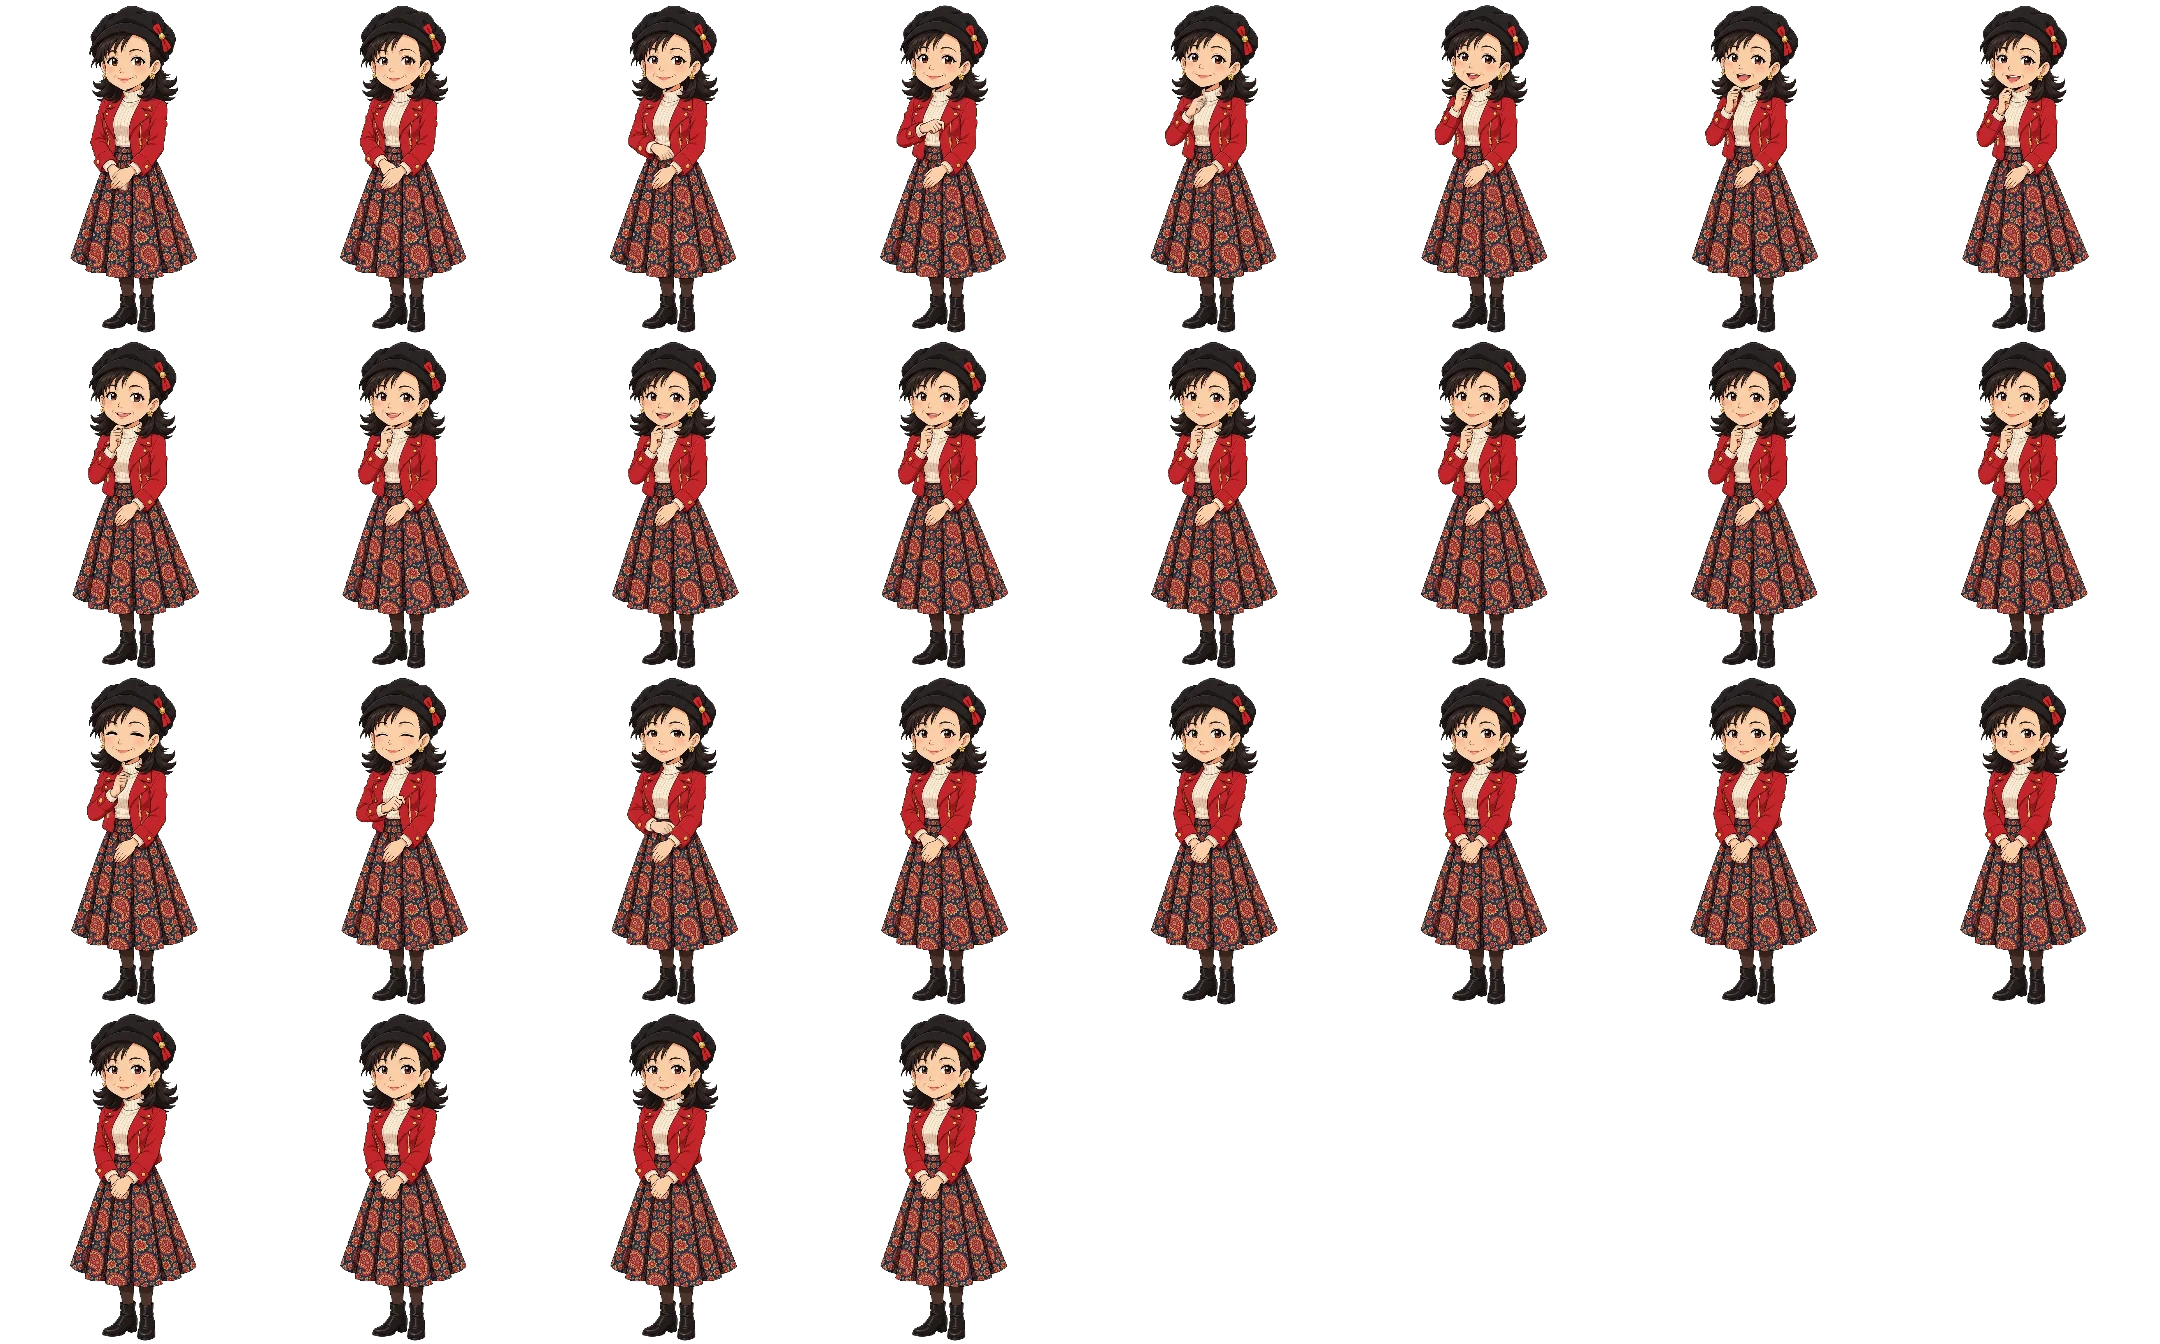
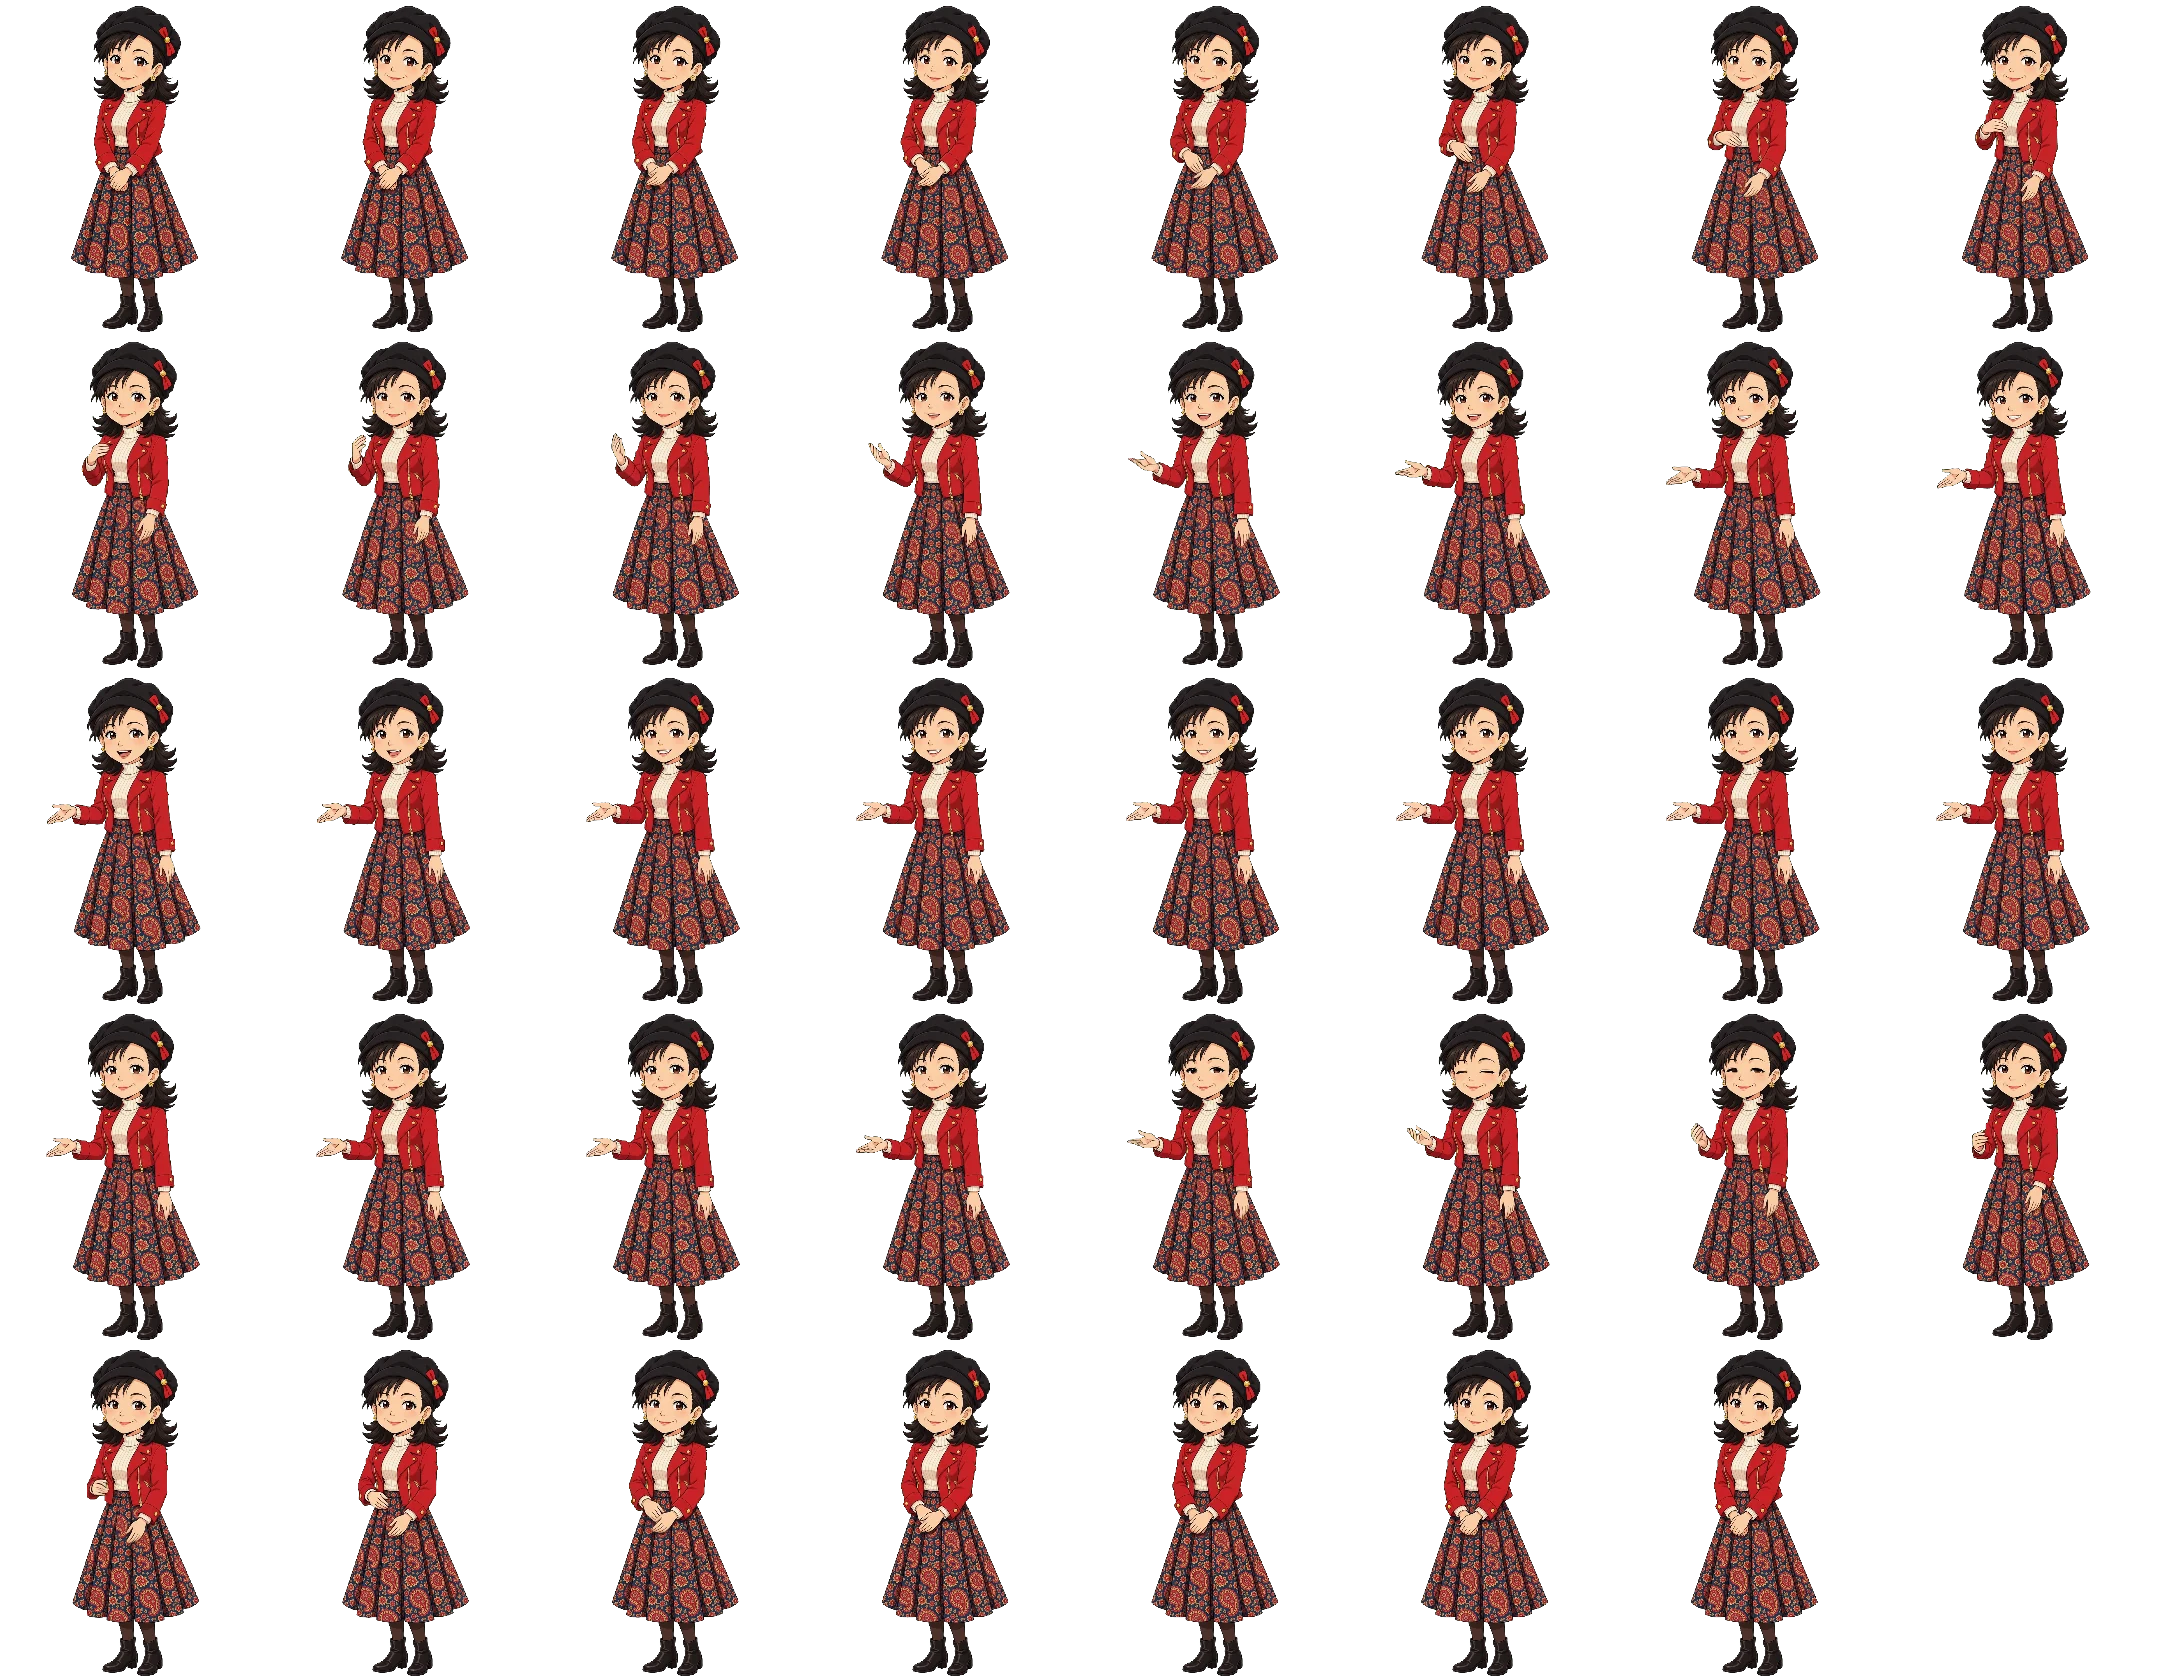
v1.61: 珍英's 聽 and 低頭看牌 remade the same way — every table motion now starts and ends on her standing pose
Claude-Session: https://claude.ai/code/session_01WZLqZseQ84zHkrkNDgDySm

diff --git a/index.html b/index.html
@@ -21,7 +21,7 @@
 <details><summary>固定配牌練習</summary><p>以下是固定牌例，包含已進行到中途的牌桌；正式遊玩請選「開始新場」。</p><div class="prototype-scenes"><button type="button" data-scene="normal">中途牌桌練習</button><button type="button" data-scene="chi">多組吃牌練習</button><button type="button" data-scene="ready">聽牌選牌練習</button><a href="./layout-check.html" data-overlay>桌面草圖對照</a></div></details>
 <button id="resume-match" class="primary" type="button" hidden>返回暫停的整場</button><button id="back-title" type="button">回到標題畫面</button><button id="fullscreen-toggle" type="button" hidden>全螢幕遊玩</button><details><summary>開始新場</summary><div class="new-game"><label>指定編號（選填） <input id="seed" type="number" min="0" max="4294967295" placeholder="留白隨機開局"></label><label>場次長度 <select id="rounds"><option value="4">四圈完整場</option><option value="1">一圈短場</option></select></label><button id="new" class="primary">開始新場</button></div><p>目前場次編號：<span id="current-seed"></span>。留白會重新隨機發牌；相同編號與相同角色順序可重播同一場。每場重新抽風位、擲骰定首莊，畫面以自家為下方。完成的場次會保留最近 20 場角色與分數；未完成的場次請先下載紀錄再重開。</p></details>
 <details><summary>練習牌例與規則</summary><p>練習牌例獨立進行，不計入整場；進行中的整場會暫停保留，可從選單「返回暫停的整場」。</p><div class="training"><button data-demo="ready">聽牌宣告</button><button data-demo="win">自摸／過水</button><button data-demo="kan">宣告後暗槓</button></div><p>一人＋三位電腦，依手牌進度、可改善牌張與公開風險選擇操作。底 100／台 50；對位花、連莊無上限。普通宣告加 1 台，可以過水；天聽、地聽有胡必胡。日本玩法留待後續版本。</p><p>人胡須放槍者首次出牌，且全桌尚未吃碰。抓位為本作開場流程，不影響每手按開門位置決定的門風。正式多人連線與角色故事尚未接入。</p></details>
-<details><summary>本局行動紀錄 <span id="log-count"></span></summary><ol id="log"></ol></details><p id="feedback" role="status"></p><footer>線上可玩預覽 v1.60 · 角色演出測試台</footer></dialog>
+<details><summary>本局行動紀錄 <span id="log-count"></span></summary><ol id="log"></ol></details><p id="feedback" role="status"></p><footer>線上可玩預覽 v1.61 · 角色演出測試台</footer></dialog>
 <dialog id="chow-dialog"><div class="dialog-head"><h2>選擇吃牌組合</h2><button id="chow-close">取消</button></div><p id="chow-source"></p><div id="chow-options"></div></dialog><dialog id="meld-dialog"><div class="dialog-head"><h2>已吃碰槓牌</h2><button id="meld-close">返回牌桌</button></div><div id="meld-summary"></div></dialog><dialog id="history-dialog"><div class="dialog-head"><h2>場次紀錄</h2><button id="history-close">返回牌桌</button></div><section id="match-summary"></section></dialog>
 <dialog id="river-dialog"><div class="dialog-head"><h2>四家棄牌</h2><button id="river-close">返回牌桌</button></div><p>淡色牌已被吃碰槓；排列順序由左到右。</p><div id="river-detail"></div></dialog><dialog id="sticker-dialog"><div class="dialog-head"><h2 id="sticker-title">角色演出</h2><button id="sticker-close">返回牌桌</button></div><div class="actor-menu"><div id="actor-tabs" role="tablist" aria-label="角色"></div><div class="actor-body"><div id="actor-own"><button id="send-sticker" aria-label="秀出自己的角色"><img id="sticker-image" alt=""><span>角色亮相</span></button></div><div id="actor-shows"></div></div></div></dialog><link rel="preload" as="image" href="./assets/title-v1/title-bg.webp" fetchpriority="high"><link rel="preload" as="image" href="./assets/title-v1/logo-ja.webp" fetchpriority="high"><script type="module">/* v1.05 · title art first: on a slow phone network the table's many images would otherwise crowd out the title cover (it stayed blank). Start the game once the cover and logo are in, or after 4 s. */const im=u=>new Promise(r=>{const i=new Image();i.onload=i.onerror=()=>r();i.src=u;});await Promise.race([Promise.all(['./assets/title-v1/title-bg.webp','./assets/title-v1/logo-ja.webp'].map(im)),new Promise(r=>setTimeout(r,4000))]);await import('./app.mjs');</script></body></html>
 
